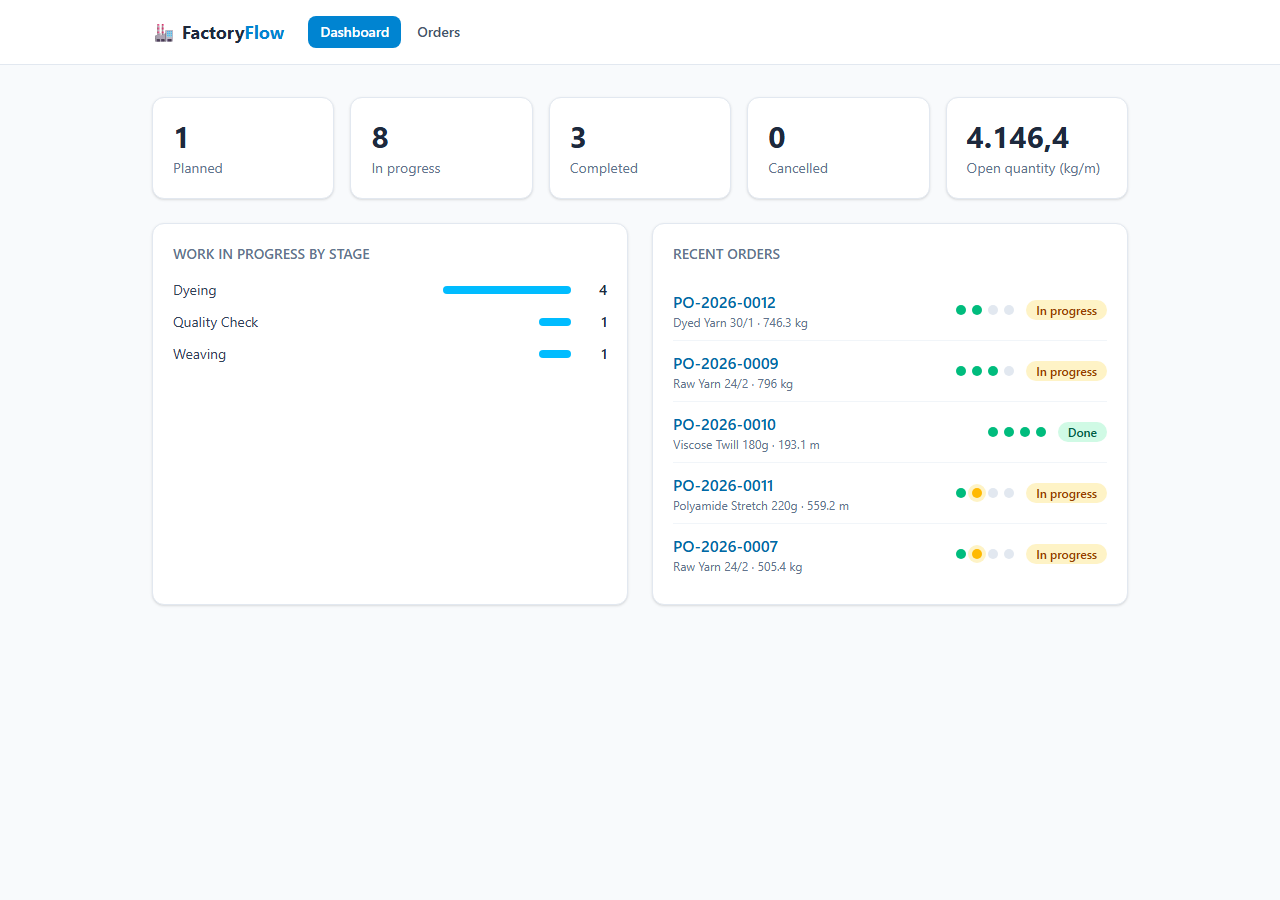
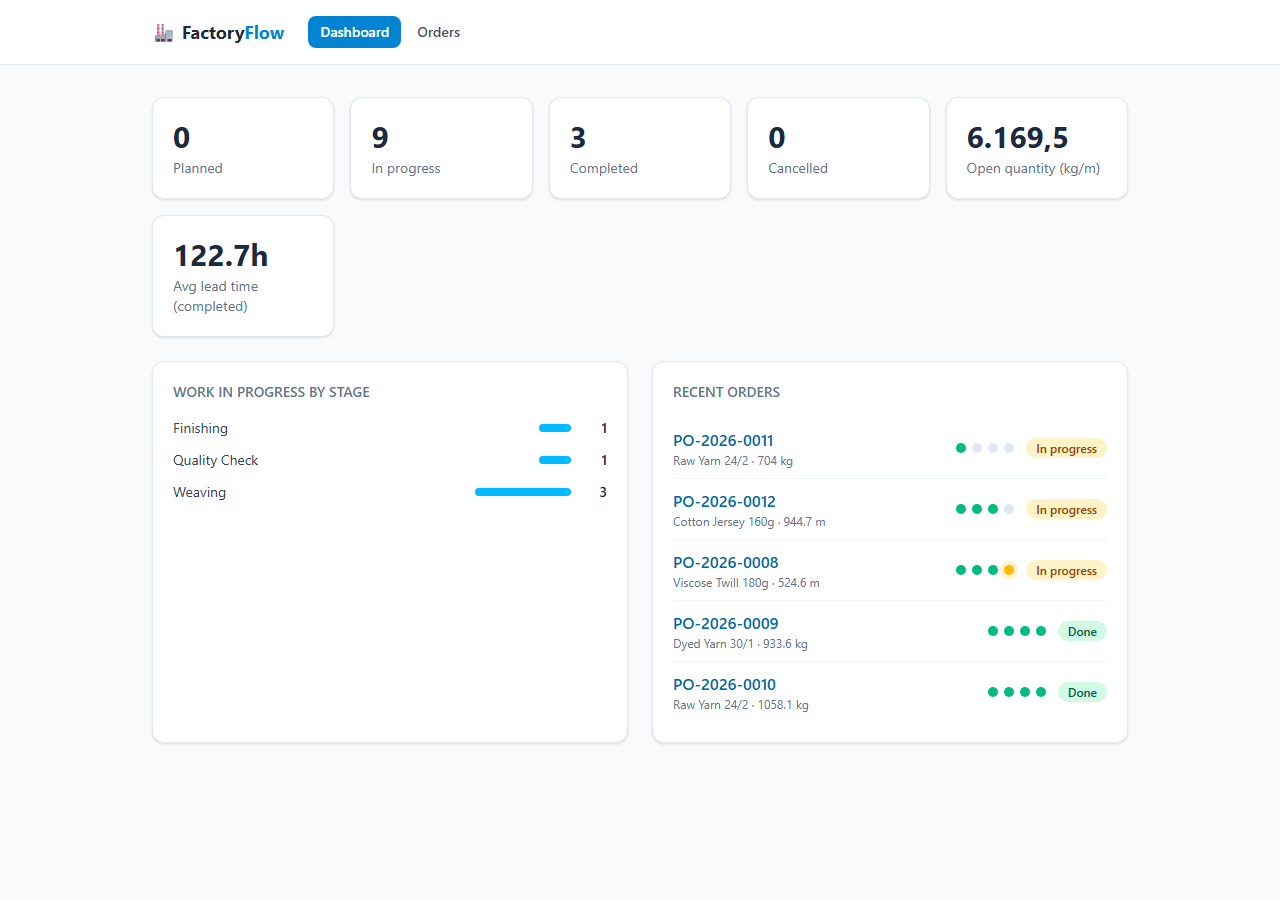
feat(dashboard): average lead time KPI for completed orders
Computes wall-clock hours from first stage start to last stage finish across completed orders, surfaced on the dashboard. The metric a plant manager actually tracks. Covered by two new tests.

diff --git a/frontend/src/pages/DashboardPage.tsx b/frontend/src/pages/DashboardPage.tsx
@@ -36,6 +36,12 @@ export default function DashboardPage() {
           </p>
           <p className="mt-1 text-sm text-slate-500">Open quantity (kg/m)</p>
         </Card>
+        <Card>
+          <p className="text-3xl font-bold text-slate-800">
+            {data.avg_lead_time_hours != null ? `${data.avg_lead_time_hours}h` : "—"}
+          </p>
+          <p className="mt-1 text-sm text-slate-500">Avg lead time (completed)</p>
+        </Card>
       </div>
 
       <div className="grid gap-6 lg:grid-cols-2">

diff --git a/frontend/src/api.ts b/frontend/src/api.ts
@@ -32,6 +32,7 @@ export interface Dashboard {
   orders_by_status: Record<OrderStatus, number>;
   open_quantity_kg: number;
   stage_load: Record<string, number>;
+  avg_lead_time_hours: number | null;
   recent_orders: Order[];
 }
 

diff --git a/backend/tests/test_dashboard.py b/backend/tests/test_dashboard.py
@@ -1,0 +1,34 @@
+from tests.test_orders import make_order, make_product
+
+
+def _advance(client, order_id, times):
+    for _ in range(times):
+        assert client.post(f"/api/orders/{order_id}/advance").status_code == 200
+
+
+def test_dashboard_reports_status_breakdown_and_open_quantity(client):
+    product = make_product(client)
+    make_order(client, product["id"])  # planned
+    started = make_order(client, product["id"])
+    _advance(client, started["id"], 1)  # in_progress
+
+    data = client.get("/api/dashboard").json()
+
+    assert data["orders_by_status"]["planned"] == 1
+    assert data["orders_by_status"]["in_progress"] == 1
+    assert data["open_quantity_kg"] == 1000  # two orders of 500
+    assert data["avg_lead_time_hours"] is None  # nothing completed yet
+
+
+def test_avg_lead_time_only_counts_completed_orders(client):
+    product = make_product(client)
+    order = make_order(client, product["id"], routing=["Dyeing", "Finishing"])
+    # 2 stages → 4 advances drives it to DONE
+    _advance(client, order["id"], 4)
+
+    data = client.get("/api/dashboard").json()
+
+    assert data["orders_by_status"]["done"] == 1
+    # Completed in the same test run, so lead time is a small non-negative number
+    assert data["avg_lead_time_hours"] is not None
+    assert data["avg_lead_time_hours"] >= 0

diff --git a/backend/app/routers/dashboard.py b/backend/app/routers/dashboard.py
@@ -38,6 +38,15 @@ def dashboard(db: Session = Depends(get_db)):
         ).all()
     )
 
+    # Average lead time across completed orders — the headline efficiency KPI.
+    done = db.scalars(
+        select(ProductionOrder)
+        .options(selectinload(ProductionOrder.stages))
+        .where(ProductionOrder.status == OrderStatus.DONE)
+    ).all()
+    lead_times = [o.lead_time_hours for o in done if o.lead_time_hours is not None]
+    avg_lead_time = round(sum(lead_times) / len(lead_times), 1) if lead_times else None
+
     recent = db.scalars(
         select(ProductionOrder)
         .options(selectinload(ProductionOrder.stages), selectinload(ProductionOrder.product))
@@ -49,5 +58,6 @@ def dashboard(db: Session = Depends(get_db)):
         orders_by_status={s.value: by_status.get(s, 0) for s in OrderStatus},
         open_quantity_kg=float(open_qty or 0),
         stage_load=stage_load,
+        avg_lead_time_hours=avg_lead_time,
         recent_orders=recent,
     )

diff --git a/backend/app/models.py b/backend/app/models.py
@@ -57,6 +57,19 @@ class ProductionOrder(Base):
     def current_stage(self) -> "OrderStage | None":
         return next((s for s in self.stages if s.finished_at is None), None)
 
+    @property
+    def lead_time_hours(self) -> float | None:
+        """Wall-clock hours from the first stage starting to the last finishing.
+
+        Only defined once every stage is finished — a partially-run order has no
+        meaningful lead time yet. This is the number a plant manager actually
+        tracks: how long a batch really took, queue time included."""
+        starts = [s.started_at for s in self.stages if s.started_at]
+        finishes = [s.finished_at for s in self.stages if s.finished_at]
+        if not starts or len(finishes) != len(self.stages):
+            return None
+        return (max(finishes) - min(starts)).total_seconds() / 3600
+
 
 class OrderStage(Base):
     """One step of the production routing (e.g. weaving, dyeing, finishing)."""

diff --git a/backend/app/schemas.py b/backend/app/schemas.py
@@ -59,4 +59,5 @@ class DashboardOut(BaseModel):
     orders_by_status: dict[str, int]
     open_quantity_kg: float
     stage_load: dict[str, int]  # stage name -> nr of orders currently sitting there
+    avg_lead_time_hours: float | None  # mean wall-clock hours for completed orders
     recent_orders: list[OrderOut]
